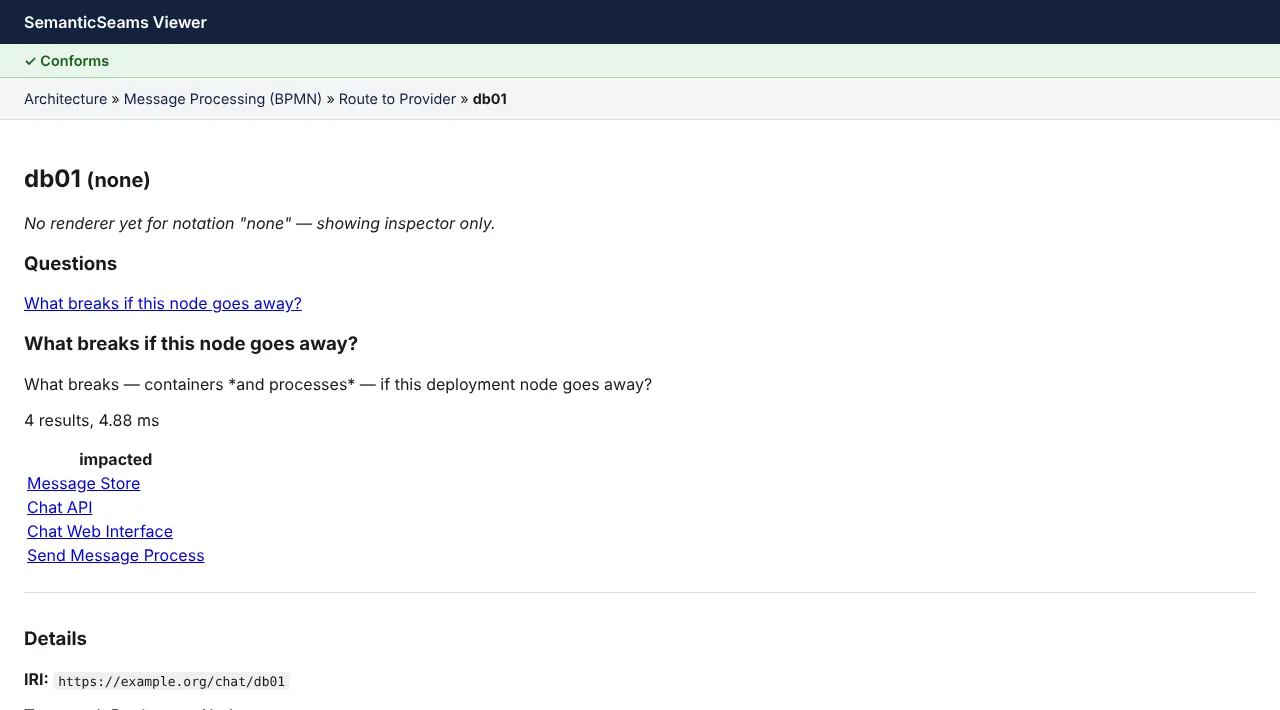
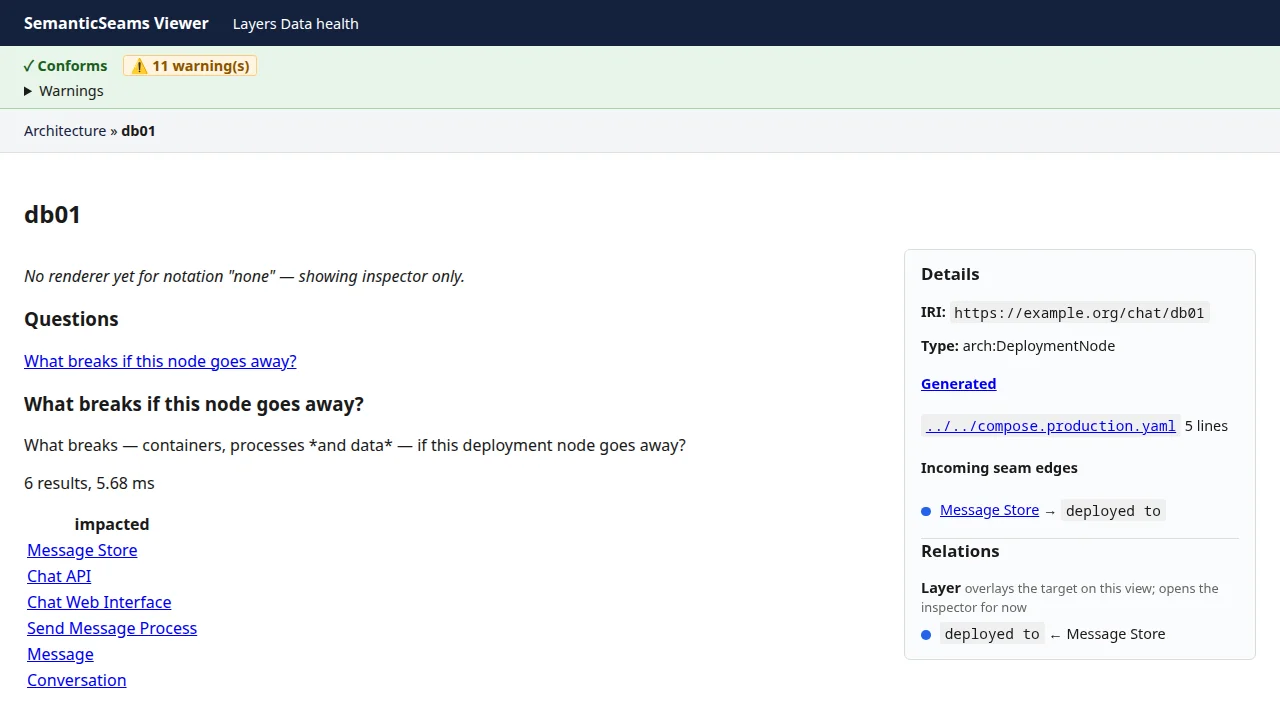
docs: retake viewer screenshots and add seven new ones
The six descent screenshots in the viewer guide and on the project site
dated from October and no longer matched the viewer (level toggle, nested
containers, IFML notation, six impact results). docs/scripts/screenshots.py
now retakes every shot with Playwright against three local viewers and strips
absolute paths before capture.

New shots: layer mode, the generation view, sequence and storm, L1 domains
and bounded contexts, edit mode with the live preview, and DDD type pills.
The site gallery gains four of them, its roadmap marks data care, observed
behaviour and interchange done (ADR-0039 to ADR-0046), and stale captions
are fixed. Course lessons 5 and 10 gain a viewer screenshot each.

diff --git a/site/index.html b/site/index.html
@@ -101,6 +101,7 @@
   figure.shot > a{display:block;line-height:0;border-bottom:1px solid var(--line)}
   figure.shot > a:focus-visible{outline:2px solid var(--view);outline-offset:-2px}
   figure.shot img{display:block;width:100%;height:auto}
+  .gallery figure.shot img{aspect-ratio:1280/710;object-fit:cover;object-position:top}
   figure.shot figcaption{padding:10px 12px 12px;font-size:14px;color:var(--ink-dim)}
   figure.shot figcaption b{display:block;color:var(--ink);font-weight:600;margin-bottom:2px}
   .tag{font-family:var(--mono);font-size:11px;letter-spacing:.08em;text-transform:uppercase;color:var(--seam);display:block;margin-bottom:4px}
@@ -231,19 +232,23 @@
       <li><span><span class="pill done">Done</span></span><div><b>A data-centric model</b><p>Versioned vocabularies with migrations, an ontology layer anchored in gist, shapes that target classes, JSON-LD contexts, and SemPKM as a store with its Mental Model and webhooks. <a href="docs/adr/0021-vocabulary-versions">ADR-0021</a> to <a href="docs/adr/0027-sempkm-webhook-channel">ADR-0027</a>.</p></div></li>
       <li><span><span class="pill done">Done</span></span><div><b>Domains, contexts and the DDD profile</b><p>Domains and bounded contexts above the system, context-map relationships, a DDD profile whose rules <code>seams check</code> reports, Context Mapper interchange, aggregate transaction boundaries and cross-aggregate invariants, with a derived event storm. <a href="docs/adr/0030-domains-and-bounded-contexts">ADR-0030</a> to <a href="docs/adr/0036-cross-aggregate-invariants">ADR-0036</a>.</p></div></li>
       <li><span><span class="pill done">Done</span></span><div><b>Time and scale</b><p>BPMN timers lifted and checked at load, with the container that keeps a process's time named in the graph; more than one replica on a shared stream channel that follows the store kind. <a href="docs/adr/0037-timers-and-scheduling">ADR-0037</a>, <a href="docs/adr/0038-shared-stream-channel">ADR-0038</a>.</p></div></li>
-      <li><span><span class="pill planned">Planned</span></span><div><b>Data care, observed behaviour, interchange</b><p>Data classification, external systems and stored-data migrations from the shape diff; the worker's trace rows as an as-observed named graph, with SLOs checked against it; Structurizr, LikeC4 and PlantUML exports, rationale links and an event-storm import. Milestones M031 to M033 in the <a href="docs/backlog">backlog</a>.</p></div></li>
+      <li><span><span class="pill done">Done</span></span><div><b>Data care, observed behaviour, interchange</b><p>Data classification, external systems and inbound webhooks, and stored-data migrations that <code>seams plan</code> writes from the shape diff; the runtime's spans as an as-observed named graph that <code>seams observed</code> queries, with latency budgets reported against it; Structurizr, LikeC4 and PlantUML exports, decision records that name what they decide, and an event-storm import. <a href="docs/adr/0039-data-classification">ADR-0039</a> to <a href="docs/adr/0046-event-storm-import">ADR-0046</a>.</p></div></li>
       <li><span><span class="pill design">Proposed</span></span><div><b>From the November research notes</b><p>Ten interface ideas from a product review, a storm board as the blank page and sentence editing first among them; a SysML v2 export and a requirements vocabulary; a glossary generator for coding agents. See the <a href="docs/project/research">research notes</a>.</p></div></li>
     </ol>
 
     <h3 class="part" id="viewer-today">The viewer today</h3>
-    <p class="sub">The running viewer on the chat-app example, captured in October 2026. Each step follows one seam. Select an image to open it full size. Edit mode, the generation view, layer mode and data health are shown in the <a href="docs/guide/the-viewer">viewer guide</a>.</p>
+    <p class="sub">The running viewer on the chat-app example, captured in November 2026. Each step follows one seam. Select an image to open it full size. The <a href="docs/guide/the-viewer">viewer guide</a> explains every view.</p>
     <div class="gallery">
-      <figure class="shot"><a href="img/viewer-architecture.webp"><img src="img/viewer-architecture.webp" width="1280" height="710" loading="lazy" alt="The chat app's architecture view: a system containing four containers and a production environment with three nodes, under a green Conforms badge"></a><figcaption><b>Architecture</b>The entry point: the chat app's C4 view, with the model-health badge above it.</figcaption></figure>
-      <figure class="shot"><a href="img/viewer-interaction.webp"><img src="img/viewer-interaction.webp" width="1280" height="710" loading="lazy" alt="The chat interface's IFML model drawn as a node-link graph of the page, its components, events, parameters and flows"></a><figcaption><b>Interface</b>Clicking the web interface lands on the IFML model it presents.</figcaption></figure>
+      <figure class="shot"><a href="img/viewer-architecture.webp"><img src="img/viewer-architecture.webp" width="1280" height="710" loading="lazy" alt="The chat app's architecture view at L2: the LLM Chat App system with its four containers nested inside, the Development and Production environments, the level toggle and a Conforms badge with its warnings"></a><figcaption><b>Architecture</b>The entry point: the chat app's C4 view at L2, with the zoom levels above it and the model-health badge above that.</figcaption></figure>
+      <figure class="shot"><a href="img/viewer-interaction.webp"><img src="img/viewer-interaction.webp" width="1280" height="710" loading="lazy" alt="The chat interface's IFML model in IFML notation: the Chat Page holding the Compose Message form, the Conversations list and the Message Thread details, events on their borders, and the Send Message Process action"></a><figcaption><b>Interface</b>Clicking the web interface lands on the IFML model it presents, drawn in IFML notation.</figcaption></figure>
       <figure class="shot"><a href="img/viewer-process.webp"><img src="img/viewer-process.webp" width="1280" height="710" loading="lazy" alt="The message-processing BPMN diagram: persist the user message, route to provider, invoke the LLM, persist the response, signal stream complete"></a><figcaption><b>Process</b>Clicking Send Message lands on the BPMN process it triggers, drawn by bpmn-js from the native XML.</figcaption></figure>
       <figure class="shot"><a href="img/viewer-disambiguation.webp"><img src="img/viewer-disambiguation.webp" width="1280" height="710" loading="lazy" alt="A chooser for Route to Provider offering two detail views: the DMN decision model and the chat data model"></a><figcaption><b>A choice</b>The rule task's decision is detailed by two models, so the viewer asks which to open.</figcaption></figure>
       <figure class="shot"><a href="img/viewer-decision-table.webp"><img src="img/viewer-decision-table.webp" width="1280" height="710" loading="lazy" alt="The Route to Provider decision table, hit policy First: long user messages go to a long-context provider, everything else to the default provider"></a><figcaption><b>Decision</b>The DMN decision table behind the rule task, drawn by dmn-js.</figcaption></figure>
-      <figure class="shot"><a href="img/viewer-impact-question.webp"><img src="img/viewer-impact-question.webp" width="1280" height="710" loading="lazy" alt="The db01 deployment node with its question answered: four impacted results, the message store, chat API, web interface and send-message process"></a><figcaption><b>A question</b>What breaks if db01 goes away: containers, a process and the data stored there, answered inline from one SPARQL query.</figcaption></figure>
+      <figure class="shot"><a href="img/viewer-impact-question.webp"><img src="img/viewer-impact-question.webp" width="1280" height="710" loading="lazy" alt="The db01 deployment node with its question answered: six impacted results, the message store, chat API, web interface, send-message process and the Message and Conversation shapes"></a><figcaption><b>A question</b>What breaks if db01 goes away: containers, a process and the data stored there, answered inline from one SPARQL query.</figcaption></figure>
+      <figure class="shot"><a href="img/viewer-layers.webp"><img src="img/viewer-layers.webp" width="1280" height="900" loading="lazy" alt="Layer mode: the architecture plane above the interaction plane, each tilted, with seam lines running down between them"></a><figcaption><b>Layers</b>Every layer on its own plane, with the seams that cross them drawn as lines between planes.</figcaption></figure>
+      <figure class="shot"><a href="img/viewer-generation.webp"><img src="img/viewer-generation.webp" width="1280" height="710" loading="lazy" alt="The generation view of Send Message: model terms, the htmx template and the generated chat page, with the citing line selected in both"></a><figcaption><b>Generation</b>How one element became code: model, template and output joined line by line by the trace.</figcaption></figure>
+      <figure class="shot"><a href="img/viewer-context-map.webp"><img src="img/viewer-context-map.webp" width="1280" height="1000" loading="lazy" alt="Expense chapter 11 at L1: two domains framing their bounded contexts, with runs edges to the Expense Approval system"></a><figcaption><b>Domains</b>Expense chapter 11 at L1: domains and bounded contexts above the system that runs them.</figcaption></figure>
+      <figure class="shot"><a href="img/viewer-edit-form.webp"><img src="img/viewer-edit-form.webp" width="1280" height="710" loading="lazy" alt="Edit mode: a form derived from the shapes for the My Expenses list, beside the live preview of every generated output"></a><figcaption><b>Edit mode</b>A form drawn from the shapes, with the generators re-run in memory beside it after each save.</figcaption></figure>
     </div>
 
     <h3 class="part" id="design-notes">From design note to viewer</h3>

diff --git a/docs/scripts/screenshots.py b/docs/scripts/screenshots.py
@@ -1,0 +1,155 @@
+"""Retake the viewer screenshots in the docs guide and the project site.
+
+Each shot is a viewer URL, optional clicks, and an output name. Run three
+viewers first (the chat app, expense chapter 11, and an edit-mode copy of
+chapter 8), then this script:
+
+    mkdir -p /tmp/shots/examples/expenses
+    cp -r examples/expenses/chapter-08 /tmp/shots/examples/expenses/
+    git ls-files '*pyproject.toml' uv.lock | xargs -I{} cp --parents {} /tmp/shots/
+    uv run uvicorn viewer.app:app --port 8791 &
+    SEAMS_MODEL=examples/expenses/chapter-11 uv run uvicorn viewer.app:app --port 8792 &
+    SEAMS_MODEL=/tmp/shots/examples/expenses/chapter-08 SEAMS_EDIT=1 uv run uvicorn viewer.app:app --port 8793 &
+    uv run --with playwright python docs/scripts/screenshots.py [NAME...]
+
+It writes docs/guide/img/<name>.webp (cwebp must be on PATH) and copies the
+descent shots to site/img/. The edit-mode copy keeps the repository's
+relative layout so the Dockerfile build-context check passes in the preview. Set PLAYWRIGHT_CHROMIUM to a Chromium executable
+when the Playwright package and its downloaded browser builds differ.
+"""
+
+from __future__ import annotations
+
+import os
+import shutil
+import subprocess
+import sys
+import tempfile
+from dataclasses import dataclass, field
+from pathlib import Path
+from urllib.parse import quote
+
+from playwright.sync_api import Page, sync_playwright
+
+ROOT = Path(__file__).resolve().parents[2]
+GUIDE_IMG = ROOT / "docs" / "guide" / "img"
+SITE_IMG = ROOT / "site" / "img"
+CHAT = "http://localhost:8791"
+CH11 = "http://localhost:8792"
+EDIT = "http://localhost:8793"
+C = "https://example.org/chat/"
+E = "https://example.org/expenses/"
+WIDTH, HEIGHT = 1280, 710
+
+
+def view(base: str, iri: str, query: str = "") -> str:
+    return f"{base}/view/{quote(iri, safe='')}{query}"
+
+
+@dataclass
+class Shot:
+    name: str
+    url: str
+    clicks: list[str] = field(default_factory=list)
+    wait_for: str | None = None
+    site: bool = False
+    height: int = HEIGHT
+    scroll_to: str | None = None
+
+
+SHOTS = [
+    Shot("viewer-architecture", view(CHAT, C + "chat_architecture"), site=True, height=900),
+    Shot("viewer-interaction", view(CHAT, C + "chat_ifml"), site=True),
+    Shot("viewer-process", view(CHAT, C + "chat_bpmn"), wait_for=".djs-container", site=True),
+    Shot("viewer-disambiguation", view(CHAT, C + "routing_decision"), site=True),
+    Shot(
+        "viewer-decision-table",
+        view(CHAT, C + "routing_dmn"),
+        clicks=[".drill-down-overlay"],
+        wait_for=".tjs-table, .dmn-decision-table-container",
+        site=True,
+    ),
+    Shot(
+        "viewer-impact-question",
+        view(CHAT, C + "db01"),
+        clicks=["#query-catalog a.query-button"],
+        wait_for="#query-results table, #query-results li",
+        site=True,
+    ),
+    Shot("viewer-layers", f"{CHAT}/layers", site=True, height=900),
+    Shot("viewer-generation", f"{CHAT}/generation/{quote(C + 'send_message', safe='')}", site=True),
+    Shot(
+        "viewer-storm",
+        view(CHAT, C + "send_message_process"),
+        clicks=["#storm-catalog a.storm-link"],
+        wait_for="#storm-view *",
+        scroll_to="#storm-catalog",
+        height=900,
+    ),
+    Shot(
+        "viewer-sequence",
+        view(CHAT, C + "send_message"),
+        clicks=["#sequence-catalog a.sequence-link"],
+        wait_for="#sequence-view svg",
+        scroll_to="#sequence-catalog",
+        height=900,
+    ),
+    Shot("viewer-context-map", view(CH11, E + "expense_architecture", "?level=L1"), site=True, height=1000),
+    Shot("viewer-type-pills", view(CH11, E + "ExpenseShape"), wait_for=".type-pill", height=260),
+    Shot("viewer-edit-form", view(EDIT, E + "expense_list"), clicks=["text=Edit"], wait_for="form", site=True),
+]
+
+
+def take(page: Page, shot: Shot, png: Path) -> None:
+    page.set_viewport_size({"width": WIDTH, "height": shot.height})
+    page.goto(shot.url, wait_until="networkidle")
+    for selector in shot.clicks:
+        page.locator(selector).first.click()
+        page.wait_for_load_state("networkidle")
+    if shot.wait_for:
+        page.locator(shot.wait_for).first.wait_for(timeout=10_000)
+    page.wait_for_timeout(800)  # let bpmn-js, ELK and Mermaid finish drawing
+    # Same model, same bytes: no machine's absolute paths in a committed image.
+    page.evaluate(
+        """root => {
+          const walk = document.createTreeWalker(document.body, NodeFilter.SHOW_TEXT);
+          for (let n = walk.nextNode(); n; n = walk.nextNode())
+            n.nodeValue = n.nodeValue.split("file://" + root).join("").split(root).join("");
+        }""",
+        str(ROOT) + "/",
+    )
+    if shot.scroll_to:
+        page.locator(shot.scroll_to).first.evaluate(
+            "e => window.scrollTo(0, e.getBoundingClientRect().top + window.scrollY - 16)"
+        )
+        page.wait_for_timeout(300)
+    page.screenshot(path=str(png))
+
+
+def main(names: list[str]) -> int:
+    shots = [s for s in SHOTS if not names or s.name in names]
+    exe = os.environ.get("PLAYWRIGHT_CHROMIUM") or None
+    failed: list[str] = []
+    with sync_playwright() as p, tempfile.TemporaryDirectory() as tmp:
+        browser = p.chromium.launch(executable_path=exe)
+        page = browser.new_page()
+        for shot in shots:
+            png = Path(tmp) / f"{shot.name}.png"
+            try:
+                take(page, shot, png)
+            except Exception as exc:  # report every failing shot, keep going
+                failed.append(f"{shot.name}: {exc}".splitlines()[0])
+                continue
+            out = GUIDE_IMG / f"{shot.name}.webp"
+            subprocess.run(["cwebp", "-quiet", "-q", "85", str(png), "-o", str(out)], check=True)
+            if shot.site:
+                shutil.copyfile(out, SITE_IMG / out.name)
+            print(f"wrote {out.relative_to(ROOT)}")
+        browser.close()
+    for line in failed:
+        print(f"failed {line}", file=sys.stderr)
+    return 1 if failed else 0
+
+
+if __name__ == "__main__":
+    sys.exit(main(sys.argv[1:]))

diff --git a/docs/guide/the-viewer.md b/docs/guide/the-viewer.md
@@ -6,17 +6,19 @@ The viewer is a browser over one model, read-only unless you switch on
 element belongs to. This page walks the canonical descent through the chat-app example,
 then explains the parts of the page and the URLs behind them.
 
-The screenshots were taken from the running viewer in October 2026.
+The screenshots were taken from the running viewer in November 2026. To retake them, run
+`docs/scripts/screenshots.py`; its docstring says which viewers to start first.
 
 ## The descent
 
 ### Architecture
 
-![The chat app's architecture view: a system containing four containers, and a production environment containing three deployment nodes](./img/viewer-architecture.webp)
+![The chat app's architecture view at L2: the LLM Chat App system with its four containers nested inside, the depends-on edges between them, and the Development and Production environments, under the level toggle and a Conforms badge with its warnings](./img/viewer-architecture.webp)
 
 The root of the chat app is its C4 architecture model: a system with four containers,
-and the production environment with the nodes they are deployed to. The green bar above
-the breadcrumbs is the model-health badge.
+the production environment with the nodes they are deployed to, and the development
+environment. The green bar above the breadcrumbs is the model-health badge; the chat app
+conforms, with warnings you can open.
 
 The architecture view has four zoom levels, chosen with the level toggle above the
 canvas or `?level=` in the URL (default L2). Each level adds to the one before:
@@ -35,6 +37,12 @@ The nested models' own edges are not drawn. Clicking a nested model still opens 
 A model that declares no `arch:Domain` draws L1 as systems, people and environments
 only. Domains and contexts, once declared, stay visible at every level, since levels
 are cumulative.
+
+![Expense chapter 11's architecture at L1: the Finance domain (party, core) framing the Payouts bounded context and the Expense Management domain (supporting) framing the Expenses context and the Expense Approval system, with runs edges from each context to the system, and the environments and SemPKM outside](./img/viewer-context-map.webp)
+
+Expense chapter 11 at L1: two domains, each labelled with its classification, frame
+their bounded contexts, and each context's `runs` edge points at the system that
+presents or executes its models.
 
 ### Interface
 
@@ -182,6 +190,8 @@ Details. A link draws one Mermaid diagram per path through the process's exclusi
 gateways, headed by the flows it takes (*single* when there is no choice). Each
 diagram's gaps, the seams the model does not declare yet, are listed under it.
 
+![The Send Message sequence drawn under the Message Processing view: the user, the web interface, the chat API, the message store and the LLM gateway, with the POST, the process start, each task's write, the lifecycle transitions and the streamed events](./img/viewer-sequence.webp)
+
 **Storm.** Beside Sequences, links to the
 [derived event storm](/concepts/diagrams-are-views#derived-event-storm) of the
 processes the view is about: a process's own BPMN view, the BPMN view that a click on
@@ -190,6 +200,8 @@ Approval from Submit Expense in chapter 10. A process started only through a cha
 such as Expense Payout, links from its own view. A link draws the timeline the
 `seams storm` command prints: each step with its actor, command, aggregate, domain
 event, decision, channel and started-process notes, then the read models and the gaps.
+
+![The Send Message Process storm: six steps, each with its actor, command, aggregate, domain event, decision or channel, then the Message Thread read model and no gaps](./img/viewer-storm.webp)
 
 **Details.** The inspector: the element's IRI, its types, its native element ID and
 payload where it has them, and its outgoing and incoming seam edges with readable
@@ -240,6 +252,8 @@ every generated line, in every output, that cites the element, grouped by file w
 its generator. Each entry opens the view on that file and line
 (`?output=…&line=…`); with no query the view opens the first citing line.
 
+![The generation view of Send Message: the model pane listing the terms the chat page cites with their line counts, the htmx template pane and the generated chat_page.html pane, with the line citing send_message selected in both, and the fan-out below](./img/viewer-generation.webp)
+
 Nothing here fails on a bad file. A missing `seams.lock`, a missing or malformed
 sidecar, an output that cannot be read and a template that cannot be found are each
 one notice above the panes naming the file, and the rest of the view is built
@@ -263,6 +277,8 @@ once as six stacked planes, one per layer, top to bottom: architecture, interact
 process, decision, data and lifecycle. Each plane holds its layer's elements, laid out
 by ELK, with the edges between them, and is tilted by a simple oblique projection so the
 planes read as a stack. The cards stay upright so their labels stay readable.
+
+![Layer mode on the chat app: the architecture plane above the interaction plane, each tilted, with their elements and edges, the Seams shown checkboxes with Layer on, and seam lines running down between the planes](./img/viewer-layers.webp)
 
 **Seams.** The lines between planes are the seams that cross layers, coloured by the
 layer they start in. Which ones show is set by the **Seams shown** checkboxes, one per
@@ -389,6 +405,8 @@ SEAMS_MODEL=/tmp/chapter-08 SEAMS_EDIT=1 uv run uvicorn viewer.app:app --port 80
 ```
 
 Any other value, or none, leaves the viewer read-only and the edit routes do not exist.
+
+![Edit mode on expense chapter 8's My Expenses list: the inspector's Edit form with its order and reads fields and their shape messages, and the live preview pane listing the thirty outputs the project's generators produce](./img/viewer-edit-form.webp)
 
 **Forms come from the shapes.** When some shape targets the element in view, its
 inspector shows an **Edit** button. The form it opens has one field per property the
@@ -624,6 +642,8 @@ and lists them by label then shape IRI. In chapter 11 `ExpenseShape` and the `Ex
 class show *Aggregate*, the operations a UI event submits to show *Command*, and the
 lifecycle transitions and `vendor_changes` channel show *Domain event*: the words are the
 DDD profile's, not the viewer's. A model with no profile shows no pills.
+
+![The Expense shape in chapter 11 with an Aggregate pill beside its heading, and the health panel naming the attached DDD profile and the imports](./img/viewer-type-pills.webp)
 
 The health panel names the attached profile with its class and generator counts, and the
 server log records one line when the model loads, naming the profile IRI and the same

diff --git a/course/lessons/05-one-graph-many-views.md b/course/lessons/05-one-graph-many-views.md
@@ -120,6 +120,12 @@ being teleported across three layers is disorienting. When an element is detaile
 models, which is what happened at the Route to Provider task in lesson 1, the viewer asks
 rather than picking silently. Every state is a URL, so every view is a link.
 
+![Layer mode in the viewer on the chat app: the architecture plane above the interaction plane, each tilted, with the layer seams drawn as lines running down between them](./img/viewer-layers.webp)
+
+*Layer mode on the chat app. The seams that no flat view draws are the lines between
+planes; the viewer guide's [layer mode](../../docs/guide/the-viewer.md#layer-mode) section
+explains the page.*
+
 The point to carry forward is the last clause of that ADR: making a predicate navigable, or
 not, is an ontology change and nothing else. No viewer code knows the names of the seams.
 That is the shape of the whole design, applied to one small decision.

diff --git a/course/lessons/10-getting-changes-back-into-the-model.md b/course/lessons/10-getting-changes-back-into-the-model.md
@@ -96,6 +96,11 @@ check, and the trace note points out that it is the property one bidirectional-t
 system, FuseDM, guaranteed by construction; here it is guaranteed by running the
 generator.
 
+![The viewer's generation view of Send Message on the chat app: the model terms the chat page cites, the htmx template and the generated page, with the line citing send_message selected in both](./img/viewer-generation.webp)
+
+*The generation view the write-back starts from: model, template and output joined line
+by line by the trace. In edit mode the output pane gains the one-line editor.*
+
 Before anything is applied, the viewer shows the effects: the triple, the files it
 touches, and every other output line the same patch changes, as before-and-after pairs,
 because a literal often has reach beyond the line you edited. Renaming a list in the chat
